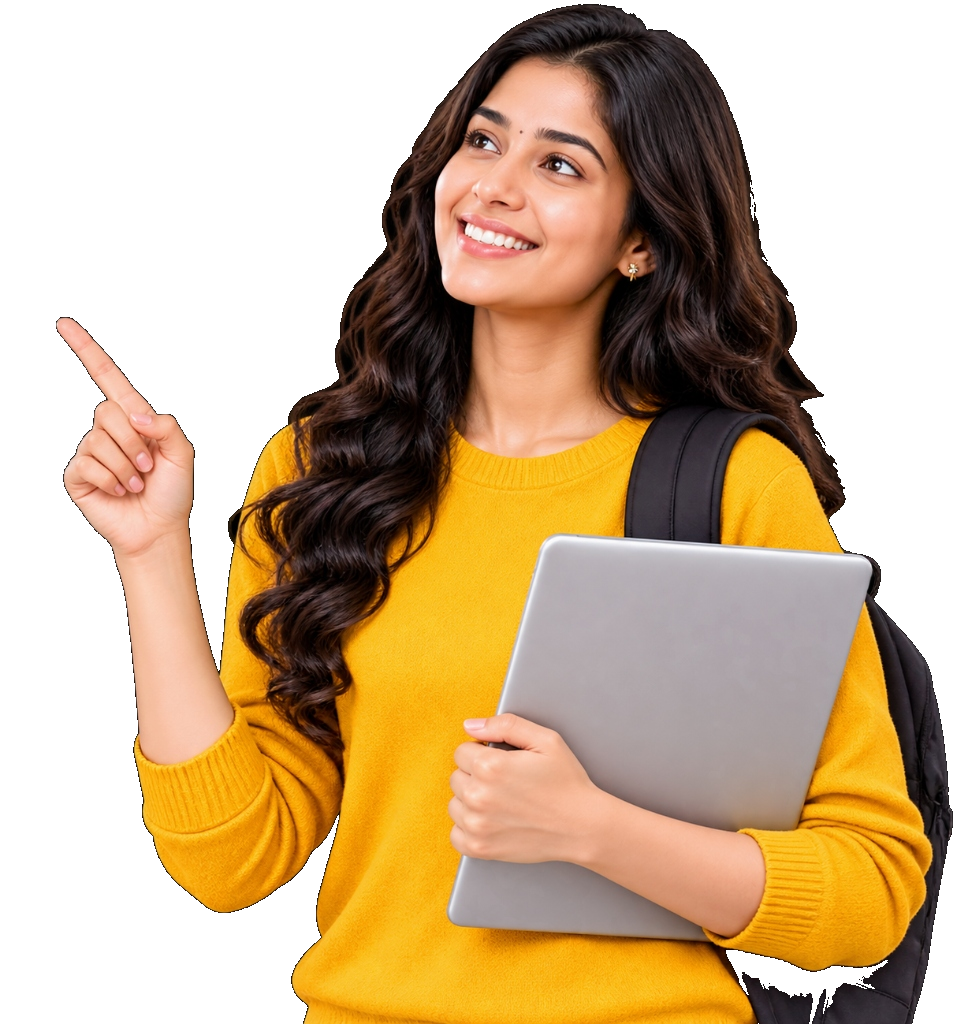
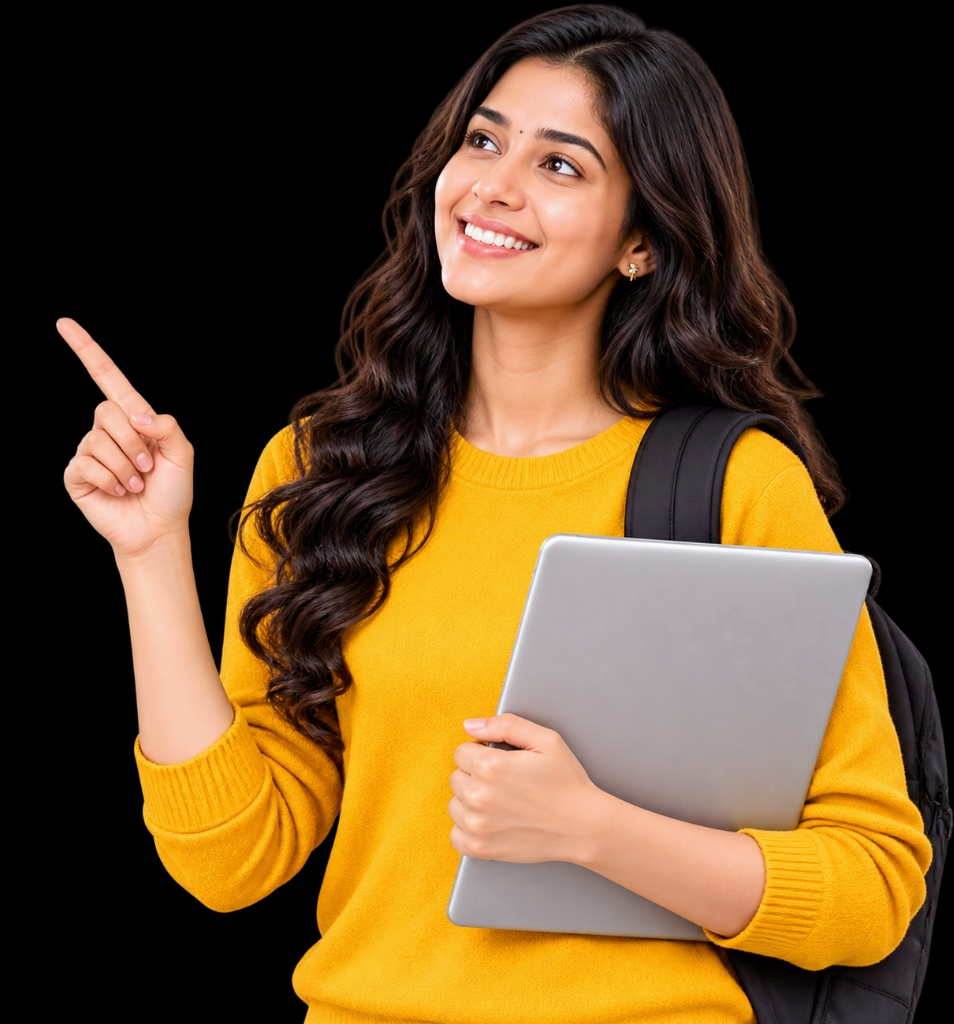
feat: set exact uncropped user image with zero alteration or cropping

diff --git a/user-website/src/pages/landing/LandingPage.tsx b/user-website/src/pages/landing/LandingPage.tsx
@@ -23,7 +23,7 @@ import {
 } from 'lucide-react';
 import { marketplaceApi, educationApi, jobsApi } from '../../services/api';
 import { IProduct, ICourse, ILiveClass, IJob } from '../../types';
-import heroModel from '../../assets/hero-model.png';
+import heroModel from '../../assets/hero-model.jpg';
 
 export const LandingPage: React.FC = () => {
   const navigate = useNavigate();
@@ -142,43 +142,13 @@ export const LandingPage: React.FC = () => {
             </div>
           </div>
 
-          {/* Right Column: Hero Graphic (Substantially Increased Size) */}
-          <div className="relative flex-1 w-full flex justify-center items-center select-none min-h-[440px] sm:min-h-[500px] lg:min-h-[540px]">
-            <div className="relative w-full max-w-[600px] lg:max-w-[660px] h-[440px] sm:h-[500px] lg:h-[540px] flex justify-center items-center mx-auto">
-              {/* 3D Flowing Golden Ribbon Centered Behind Model */}
-              <svg
-                className="absolute bottom-2 left-1/2 -translate-x-1/2 w-[460px] sm:w-[540px] lg:w-[580px] h-[320px] sm:h-[380px] lg:h-[410px] pointer-events-none -z-10 drop-shadow-xl"
-                viewBox="0 0 400 300"
-                fill="none"
-                xmlns="http://www.w3.org/2000/svg"
-              >
-                <path
-                  d="M10 240C90 280 220 270 320 200C390 150 370 70 395 10"
-                  stroke="url(#exactGoldGradient)"
-                  strokeWidth="38"
-                  strokeLinecap="round"
-                />
-                <path
-                  d="M40 255C110 290 220 285 305 220"
-                  stroke="#D97706"
-                  strokeWidth="10"
-                  strokeLinecap="round"
-                  opacity="0.6"
-                />
-                <defs>
-                  <linearGradient id="exactGoldGradient" x1="0%" y1="100%" x2="100%" y2="0%">
-                    <stop offset="0%" stopColor="#D97706" />
-                    <stop offset="45%" stopColor="#FFB800" />
-                    <stop offset="100%" stopColor="#FFAE00" />
-                  </linearGradient>
-                </defs>
-              </svg>
-
-              {/* Model Cutout Increased Size */}
+          {/* Right Column: Exact User Image (Uncropped, Full Resolution) */}
+          <div className="relative flex-1 w-full flex justify-center items-center select-none">
+            <div className="relative w-full max-w-[560px] lg:max-w-[620px] flex justify-center items-center mx-auto">
               <img
                 src={heroModel}
                 alt="Business Hub Platform - Shop, Learn, Find Jobs and Grow"
-                className="max-h-[440px] sm:max-h-[500px] lg:max-h-[540px] w-auto max-w-full object-contain drop-shadow-2xl hover:scale-105 transition-transform duration-700 pointer-events-none mx-auto"
+                className="w-full h-auto max-h-[520px] object-contain drop-shadow-2xl hover:scale-[1.02] transition-transform duration-500 pointer-events-none mx-auto"
               />
             </div>
           </div>
